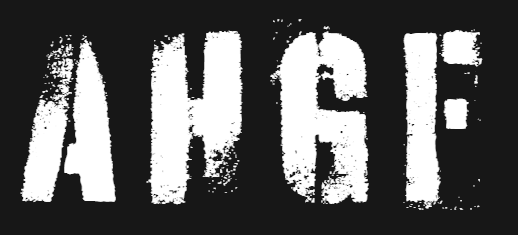
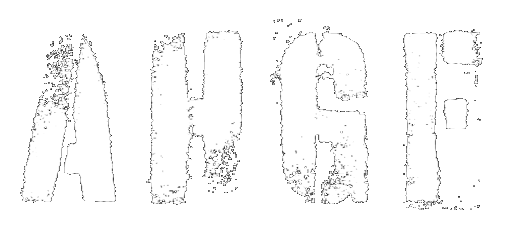
display game title image correctly

diff --git a/src/AGHF/StartGameView.java b/src/AGHF/StartGameView.java
@@ -1,7 +1,7 @@
 package AGHF;
 
 import java.awt.Color;
-import java.awt.Container;
+import java.awt.Dimension;
 import java.awt.Font;
 import java.awt.Point;
 import java.awt.Toolkit;
@@ -10,6 +10,8 @@ import java.awt.event.ActionListener;
 import java.awt.event.FocusEvent;
 import java.awt.event.FocusListener;
 
+
+import javax.swing.ImageIcon;
 import javax.swing.JButton;
 import javax.swing.JFrame;
 import javax.swing.JLabel;
@@ -35,7 +37,6 @@ public class StartGameView implements ActionListener {
 	private DirectionPanel d;
 	private Font font;
 	private Font font2;
-	private Container c;
 	public StartGameView() {
 		frame = new JFrame();
 		frame.setSize((int) Toolkit.getDefaultToolkit().getScreenSize().getWidth(),
@@ -47,17 +48,17 @@ public class StartGameView implements ActionListener {
 		frame.setLocationRelativeTo(null);
 		frame.setName("AGHF");
 
-		c = frame.getContentPane();
-		//need to pick a color if want a diff color background
-		c.setBackground(Color.getHSBColor(new Float(0),new Float(0),new Float(0)));
+		//need to pick a color if we want a diff color background
+		frame.getContentPane().setBackground(Color.getHSBColor(0f, 0f, 0.1f));
 		
 		
 		font = new Font("Dialog", Font.BOLD | Font.HANGING_BASELINE, 180);
 		font2 = new Font("Dialog", Font.PLAIN | Font.ROMAN_BASELINE, 20);
 
-		lblTitle = new JLabel("AGHF");
-		lblTitle.setBounds(frame.getWidth() / 2 - 240, 120, 800, 200);
-		lblTitle.setFont(font);
+		ImageIcon icon = new ImageIcon("assets/GameTitle.png");
+		lblTitle = new JLabel(icon);
+		lblTitle.setSize(new Dimension(icon.getIconWidth(), icon.getIconHeight()));
+		lblTitle.setLocation(frame.getWidth() / 2 - lblTitle.getWidth() / 2, frame.getHeight() / 4 - lblTitle.getHeight() / 2);
 
 		directionsBtn = new JButton("Directions");
 		directionsBtn.setBounds(frame.getWidth() / 2 + 80, frame.getHeight() * 3 / 4, 160, 70);
